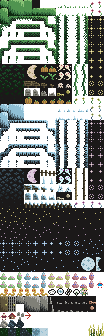
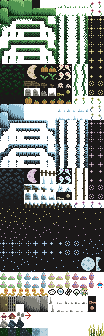
side level slightly improved

Changed region(s): [[0.4615, 0.8631, 0.8654, 0.9524]]

diff --git a/src/scene/game.rs b/src/scene/game.rs
@@ -50,6 +50,7 @@ pub struct Game {
     game_state: GameState,
     init_sidemap: bool,
     item_tween: Tween,
+    draw_sky: bool,
 }
 
 impl Game{
@@ -97,6 +98,7 @@ impl Game{
                 game_state: GameState::MAP,
                 init_sidemap: true,
                 item_tween: tween,
+                draw_sky: true,
             }
         }
     }
@@ -144,6 +146,7 @@ impl Game{
                 self.camera_side.target = self.player_side.position()-vec2(4.0,OFFSET_CAMERA);
                 self.camera_sky.target = self.player_side.position()-vec2(-100.0,OFFSET_CAMERA-10.0);
                 self.game_state = self.current_tilemap_key.clone();
+                self.draw_sky = true;
                 None
             },
             GameState::MapIce => {
@@ -152,6 +155,7 @@ impl Game{
                 self.camera_side.target = self.player_side.position()-vec2(4.0,OFFSET_CAMERA);
                 self.camera_sky.target = self.player_side.position()-vec2(-100.0,OFFSET_CAMERA-10.0);
                 self.game_state = self.current_tilemap_key.clone();
+                self.draw_sky = true;
                 None
             },
             GameState::MapSwamp => {
@@ -160,6 +164,7 @@ impl Game{
                 self.camera_side.target = self.player_side.position()-vec2(4.0,OFFSET_CAMERA);
                 self.camera_sky.target = self.player_side.position()-vec2(-100.0,OFFSET_CAMERA-10.0);
                 self.game_state = self.current_tilemap_key.clone();
+                self.draw_sky = true;
                 None
             },
             GameState::MapForest => {
@@ -168,6 +173,7 @@ impl Game{
                 self.camera_side.target = self.player_side.position()-vec2(4.0,OFFSET_CAMERA);
                 self.camera_sky.target = self.player_side.position()-vec2(-100.0,OFFSET_CAMERA-10.0);
                 self.game_state = self.current_tilemap_key.clone();
+                self.draw_sky = true;
                 None
             },
             GameState::MapZelda1 => {
@@ -176,6 +182,7 @@ impl Game{
                 self.camera_side.target = self.player_side.position()-vec2(4.0,OFFSET_CAMERA);
                 self.camera_sky.target = self.player_side.position()-vec2(-100.0,OFFSET_CAMERA-1000.0);
                 self.game_state = self.current_tilemap_key.clone();
+                self.draw_sky = false;
                 self.map_tilemap.set_tileid_at(self.map_tilemap.get_layer_id("deco"),544, self.player_map.position+vec2(4.0,4.0));
                 None
             },
@@ -185,6 +192,7 @@ impl Game{
                 self.camera_side.target = self.player_side.position()-vec2(4.0,OFFSET_CAMERA);
                 self.camera_sky.target = self.player_side.position()-vec2(-100.0,OFFSET_CAMERA-10.0);
                 self.game_state = self.current_tilemap_key.clone();
+                self.draw_sky = false;
                 self.map_tilemap.set_tileid_at(self.map_tilemap.get_layer_id("deco"),543, self.player_map.position+vec2(4.0,4.0));
                 None
             },
@@ -194,6 +202,7 @@ impl Game{
                 self.camera_side.target = self.player_side.position()-vec2(4.0,OFFSET_CAMERA);
                 self.camera_sky.target = self.player_side.position()-vec2(-100.0,OFFSET_CAMERA-10.0);
                 self.game_state = self.current_tilemap_key.clone();
+                self.draw_sky = true;
                 None
             },
             _ => {
@@ -202,7 +211,9 @@ impl Game{
                 }
                 update_sky_camera(self);
                 set_camera(self.camera_sky);
-                self.tilemaps.get(&self.current_tilemap_key).unwrap().draw(self.side_texture, vec2(0.0, 0.0), Some(self.tilemaps.get(&self.current_tilemap_key).unwrap().get_layer_id("sky")));
+                if self.draw_sky{
+                    self.tilemaps.get(&self.current_tilemap_key).unwrap().draw(self.side_texture, vec2(0.0, 0.0), Some(self.tilemaps.get(&self.current_tilemap_key).unwrap().get_layer_id("sky")));
+                }
                 set_default_camera();
                 update_side_camera(self, self.player_side.position());
                 set_camera(self.camera_side);
